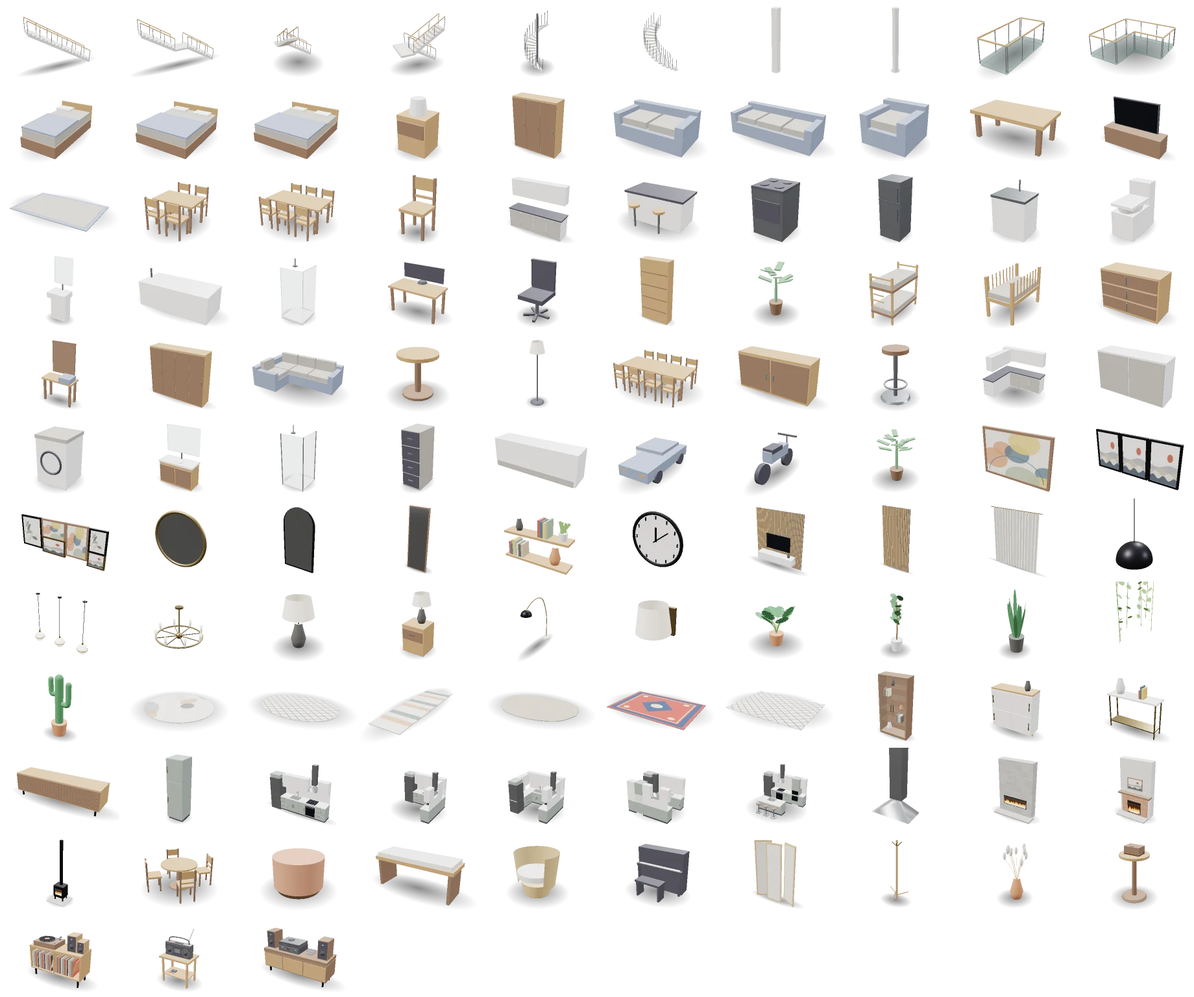
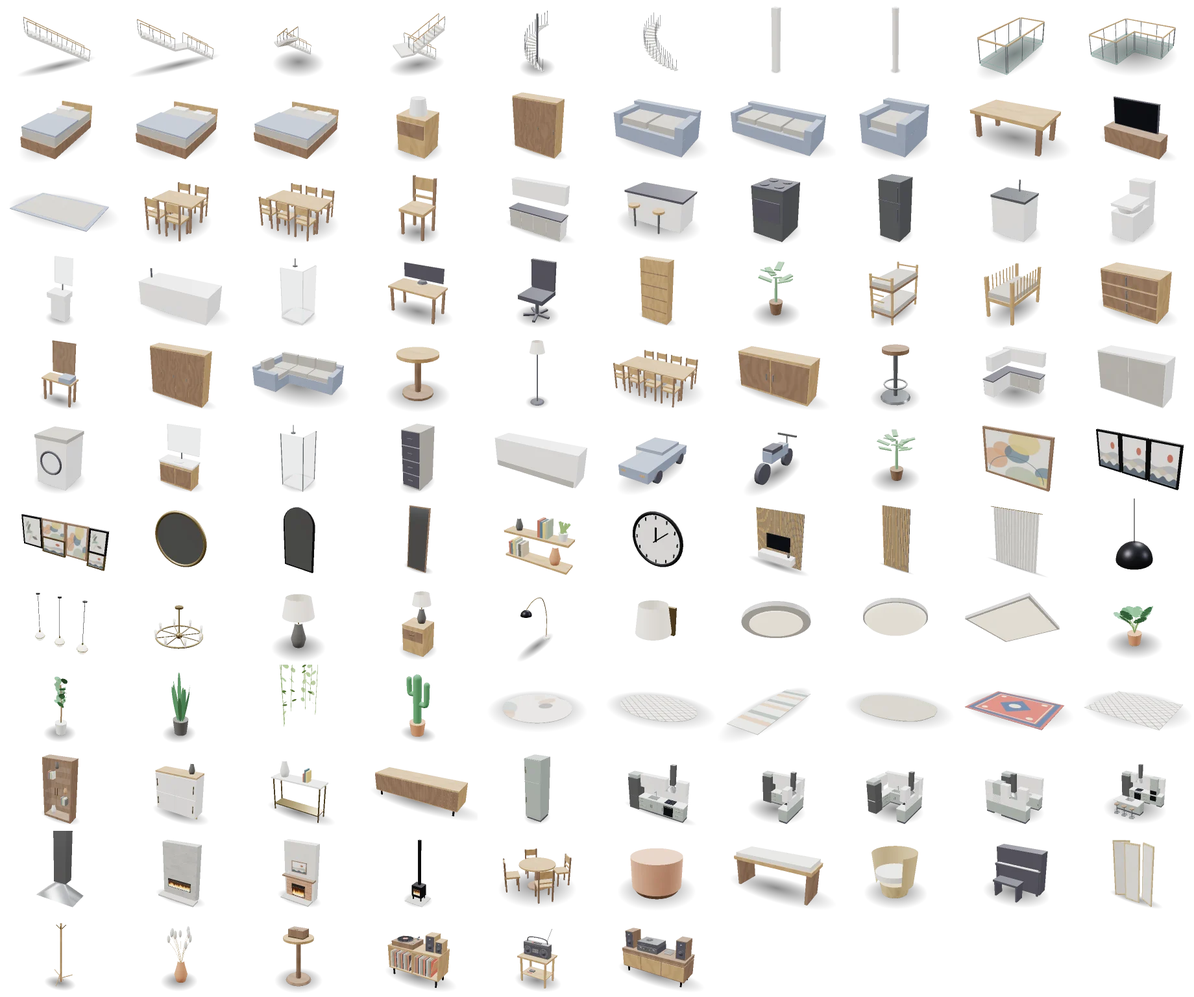
Ceiling lamps with lumens/SNI sizing, smoother shadows, anti-tiling textures, live shadow updates
- New ceiling-mounted lamps: downlight, round flush mount, 60x60 LED panel.
  Their pooled point light carries an invisible disc that blocks upward light
  (only for its own shadow map), so the ceiling does not flare white.
- Lamp brightness is now set in lumens (defaults follow common LED fittings);
  inspector shows the SNI 6197 target for the room (area by flood fill,
  room type guessed from furniture) and applies it with one button.
- Shadow noise: rotation pattern shrunk to 2x2 and point lights take 12 extra
  taps in the penumbra only; SSAO blur is now exactly 4x4 so its Bayer
  pattern cancels instead of leaving a dotted screen-door texture.
- Anti-tiling for wall/floor finishes (world-space macro variation, rotated
  second sample for noise-like textures, per-tile tone for ceramics); wood,
  fabric and metal micro-relief fade out before they alias into moire.
- Shadow maps refresh after toggling curtains/TV/lamps in walk mode, and a
  lamp's light follows it while it is dragged with the gizmo.

Claude-Session: https://claude.ai/code/session_01WFmxvquuy7T2PQJpb6WFnF

diff --git a/index.html b/index.html
@@ -665,19 +665,22 @@ renderer.shadowMap.autoUpdate=false;
   let s=THREE.ShaderChunk.shadowmap_pars_fragment;
   const fn=`
 	float sbB2( vec2 a ){ a=floor(a); return fract( dot( a, vec2( 0.5, a.y*0.75 ) ) ); }
-	float sbIGN(){ vec2 a=gl_FragCoord.xy; return sbB2( 0.5*a )*0.25 + sbB2( a ); }   // matriks Bayer 4×4: tekstur halus merata, bukan bintik acak
+	// pola putar 2×2 (bukan 4×4): di layar retina satu periode hanya 2 piksel fisik,
+	// jadi mata merata-ratakannya — tidak tampak bintik-bintik seperti pola 4×4
+	float sbIGN(){ return sbB2( gl_FragCoord.xy ); }
+	float sbGeser(){ return 0.125+0.75*sbB2( gl_FragCoord.xy+vec2(1.0,0.0) ); }
 	// spiral Vogel tanpa sin/cos per cuplikan: arah diputar sudut emas tiap langkah
 	const mat2 SB_EMAS = mat2( -0.7373688, 0.6754903, -0.6754903, -0.7373688 );
 	const mat2 SB_GESER = mat2( -0.5048461, 0.8632094, -0.8632094, -0.5048461 );
 	float sbPCSS( sampler2D map, vec2 uv, float z, float S, vec2 size ){
-		vec2 tex=1.0/size; float rot=sbIGN()*6.2831853; vec2 a0=vec2( cos(rot), sin(rot) ), a=a0;
+		vec2 tex=1.0/size; float rot=sbIGN()*6.2831853, sg=sbGeser(); vec2 a0=vec2( cos(rot), sin(rot) ), a=a0;
 		float cari=clamp( z*S, tex.x*3.0, 0.02 );
 		// bias bidang penerima: permukaan miring terhadap cahaya tidak boleh
 		// menghalangi dirinya sendiri di cuplikan yang jauh dari pusat
 		float kz=0.035/max(S,1e-4);
 		float jumlah=0.0, n=0.0;
 		for( int i=0; i<12; i++ ){
-			float r=sqrt((float(i)+0.5)/12.0)*cari;
+			float r=sqrt((float(i)+sg)/12.0)*cari;
 			float d=unpackRGBAToDepth( texture2D( map, uv+a*r ) );
 			if( d<z-r*kz ){ jumlah+=d; n+=1.0; }
 			a=SB_EMAS*a;
@@ -687,7 +690,7 @@ renderer.shadowMap.autoUpdate=false;
 		if( n>11.5 && pen<=cari ) return 0.0;          // seluruh area terhalang: umbra, tanpa penyaringan
 		float h=0.0;
 		a=SB_GESER*a0;
-		for( int i=0; i<16; i++ ){ float r=sqrt((float(i)+0.5)/16.0)*pen; h+=texture2DCompare( map, uv+a*r, z-r*kz ); a=SB_EMAS*a; }
+		for( int i=0; i<16; i++ ){ float r=sqrt((float(i)+sg)/16.0)*pen; h+=texture2DCompare( map, uv+a*r, z-r*kz ); a=SB_EMAS*a; }
 		return h/16.0;
 	}
 `;
@@ -699,12 +702,16 @@ renderer.shadowMap.autoUpdate=false;
 		float dR=length(L2P); vec3 N=L2P/dR;
 		vec3 up=abs(N.y)<0.99 ? vec3(0.0,1.0,0.0) : vec3(1.0,0.0,0.0);
 		vec3 T=normalize(cross(up,N)); vec3 B=cross(N,T);
-		float rot=sbIGN()*6.2831853, tex=2.0/size.x; vec2 a=vec2( cos(rot), sin(rot) );
+		float rot=sbIGN()*6.2831853, sg=sbGeser(), tex=2.0/size.x; vec2 a=vec2( cos(rot), sin(rot) );
 		float pen=clamp( 0.6*Ls/max(dR,0.3), tex*1.5, 0.12 );
 		float kd=0.7*dR/(farC-nearC);                 // bias bidang penerima per radian
 		float h=0.0;
-		for( int i=0; i<12; i++ ){ float r=sqrt((float(i)+0.5)/12.0)*pen; vec2 o=a*r; a=SB_EMAS*a; h+=texture2DCompare( map, cubeToUV( N+T*o.x+B*o.y, texY ), dp-r*kd ); }
-		return h/12.0;
+		for( int i=0; i<12; i++ ){ float r=sqrt((float(i)+sg)/12.0)*pen; vec2 o=a*r; a=SB_EMAS*a; h+=texture2DCompare( map, cubeToUV( N+T*o.x+B*o.y, texY ), dp-r*kd ); }
+		if( h<0.5 || h>11.5 ) return h/12.0;         // terang penuh / umbra: cukup 12 cuplikan
+		// di penumbra saja: 12 cuplikan lagi di sela-sela yang pertama → 24, bintik jauh berkurang
+		a=SB_GESER*a; float sg2=fract(sg+0.5);
+		for( int i=0; i<12; i++ ){ float r=sqrt((float(i)+sg2)/12.0)*pen; vec2 o=a*r; a=SB_EMAS*a; h+=texture2DCompare( map, cubeToUV( N+T*o.x+B*o.y, texY ), dp-r*kd ); }
+		return h/24.0;
 	}
 `;
   const a0=s.indexOf('float getShadow(');
@@ -882,11 +889,15 @@ function fxSiapkan(){
     uniforms:{tAO:{value:FX.rtA.texture}, tDepth:{value:FX.rtD.depthTexture}, size:{value:new THREE.Vector2()}, cNear:{value:0.05}, cFar:{value:600}, projInv:{value:new THREE.Matrix4()}},
     fragmentShader:posFn+`
     uniform sampler2D tAO; varying vec2 vUv;
-    void main(){                                   // 5×5 menghormati kedalaman: bayangan tidak meluber ke benda di depannya
+    // 4×4 persis selebar pola Bayer AO: tiap jendela memuat ke-16 putaran sekali,
+    // jadi polanya hilang total (5×5 menyisakan bintik-bintik halus). Bobot
+    // kedalaman relatif: lantai yang dilihat miring tetap dirata-rata penuh,
+    // sedangkan benda di depan/belakang tidak ikut meluber.
+    void main(){
       vec2 px=1.0/size; float z0=posV(vUv).z, s=0.0, w=0.0;
-      for(int x=-2;x<=2;x++) for(int y=-2;y<=2;y++){
+      for(int x=-2;x<=1;x++) for(int y=-2;y<=1;y++){
         vec2 uv=vUv+vec2(float(x),float(y))*px;
-        float bw=1.0/(1.0+abs(posV(uv).z-z0)*18.0);
+        float bw=1.0-0.97*smoothstep(0.015,0.05,abs(posV(uv).z-z0)/max(-z0,0.05));
         s+=texture2D(tAO,uv).r*bw; w+=bw;
       }
       gl_FragColor=vec4(vec3(s/w),1.0);
@@ -1321,6 +1332,45 @@ function setPBR(on){
   rebuildScene();
 }
 
+/* ANTI-PENGULANGAN — tekstur finishing berulang tiap 1–2,4 m; di dinding atau
+   lantai yang luas, bercak yang sama muncul berderet dan mata langsung melihat
+   "ubin"-nya. Di shader: (1) variasi terang skala besar dari noise ruang dunia,
+   (2) tekstur acak (cat, plester, beton, teraso) dicampur dengan dirinya sendiri
+   yang diputar & diskalakan lewat topeng noise, (3) keramik: tiap keping sedikit
+   beda nada seperti ubin sungguhan dari lot produksi yang sama. */
+const ULANG_ACAK=new Set(['W_cat','W_plester','W_beton','L_beton','L_teraso']);
+const ULANG_KEPING={L_keramik:2, L_keramik2:2};
+function antiUlang(m,kunci){
+  const acak=ULANG_ACAK.has(kunci)?1:0, kep=ULANG_KEPING[kunci]||0;
+  m.customProgramCacheKey=()=>'ulang_'+acak+'_'+kep;
+  m.onBeforeCompile=sh=>{
+    sh.vertexShader=sh.vertexShader
+      .replace('#include <common>','#include <common>\nvarying vec3 vUPos;')
+      .replace('#include <worldpos_vertex>','#include <worldpos_vertex>\n vUPos=(modelMatrix*vec4(transformed,1.0)).xyz;');
+    sh.fragmentShader=sh.fragmentShader
+      .replace('#include <common>',`#include <common>
+varying vec3 vUPos;
+float uH(vec3 p){ p=fract(p*0.3183099+0.1); p*=17.0; return fract(p.x*p.y*p.z*(p.x+p.y+p.z)); }
+float uN(vec3 x){ vec3 i=floor(x), f=fract(x); f=f*f*(3.0-2.0*f);
+  return mix(mix(mix(uH(i),uH(i+vec3(1,0,0)),f.x),mix(uH(i+vec3(0,1,0)),uH(i+vec3(1,1,0)),f.x),f.y),
+             mix(mix(uH(i+vec3(0,0,1)),uH(i+vec3(1,0,1)),f.x),mix(uH(i+vec3(0,1,1)),uH(i+vec3(1,1,1)),f.x),f.y),f.z); }`)
+      .replace('#include <map_fragment>',`#ifdef USE_MAP
+  vec4 texelColor=texture2D( map, vUv );
+  #if ${acak}
+  { vec2 uv2=mat2(0.8,-0.6,0.6,0.8)*vUv*0.71+vec2(0.37,0.61);
+    float t=smoothstep(0.3,0.7,uN(vUPos*0.8+vec3(3.1)));
+    texelColor=mix(texelColor,texture2D( map, uv2 ),t); }
+  #endif
+  texelColor=mapTexelToLinear( texelColor );
+  diffuseColor*=texelColor;
+#endif
+  diffuseColor.rgb*=0.955+0.09*(uN(vUPos*0.42)*0.65+uN(vUPos*1.35+vec3(7.0))*0.35);
+  #if ${kep}
+  { vec2 c=floor(vUv*${kep}.0+0.0001); diffuseColor.rgb*=0.975+0.05*fract(sin(dot(c,vec2(12.9898,78.233)))*43758.5453); }
+  #endif`);
+  };
+  m.needsUpdate=true;
+}
 const FINMAT=new Map();          // kunci -> material, dibuat sekali lalu dipakai ulang
 function finMat(tabel,kunci,warnaCustom){
   const def=tabel[kunci]||tabel[Object.keys(tabel)[0]];
@@ -1339,6 +1389,7 @@ function finMat(tabel,kunci,warnaCustom){
     } else m=new THREE.MeshStandardMaterial(tex
       ? {map:finTex(kunciTex,warna), color:0xffffff, roughness:def.kasar, metalness:def.logam}
       : {color:warna, roughness:def.kasar, metalness:def.logam});
+    if(tex && renderer.capabilities.isWebGL2) antiUlang(m,kunciTex);
     FINMAT.set(id,m);
   }
   return FINMAT.get(id);
@@ -3191,6 +3242,17 @@ function wallSconce(){ const g=new THREE.Group(), y=1.65;
   g.add(box(0.015,0.015,0.14,MAT.brass,0,y,0.03));
   g.add(msh(new THREE.CylinderGeometry(0.07,0.09,0.14,24,1,true),MAT.shade,0,y+0.06,0.1));
   g.add(sph(0.03,MAT.glow,0,y+0.04,0.1)); return g; }
+/* lampu yang menempel di plafon: tanpa tali, diffuser rata dengan plafon */
+function downlight(){ const g=new THREE.Group(), H=ceilH();
+  g.add(cyl(0.085,0.085,0.012,MAT.white,0,H-0.006,0,32));                 // bingkai (trim) bulat
+  g.add(cyl(0.066,0.066,0.004,MAT.glow,0,H-0.013,0,32)); return g; }
+function ceilingFlush(){ const g=new THREE.Group(), H=ceilH();
+  g.add(cyl(0.2,0.2,0.025,MAT.white,0,H-0.0125,0,40));
+  const d=msh(new THREE.SphereGeometry(0.19,40,10,0,Math.PI*2,Math.PI/2,Math.PI/2),MAT.glow,0,H-0.024,0);
+  d.scale.y=0.36; g.add(d); return g; }
+function ceilingPanel(){ const g=new THREE.Group(), H=ceilH();
+  g.add(box(0.6,0.028,0.6,MAT.white,0,H-0.014,0));
+  g.add(box(0.56,0.004,0.56,MAT.glow,0,H-0.03,0)); return g; }
 
 /* ---------- TANAMAN ---------- */
 function leafGeo(len,wid,tipe){
@@ -3494,6 +3556,9 @@ const FURN={
   night_lamp  :{l:'Nakas + Lampu',      i:'🛏', c:'lampu',   f:[0.45,0.4],  b:nightLampSet},
   arc_lamp    :{l:'Lampu Lengkung',     i:'💡', c:'lampu',   f:[0.4,1.7],   b:arcLamp},
   wall_sconce :{l:'Lampu Dinding',      i:'💡', c:'lampu',   f:[0.2,0.2],   b:wallSconce,   wall:1, back:0.05},
+  downlight   :{l:'Downlight Plafon',   i:'💡', c:'lampu',   f:[0.17,0.17], b:downlight,    plafon:1},
+  ceiling_flush:{l:'Lampu Plafon Bulat',i:'💡', c:'lampu',   f:[0.4,0.4],   b:ceilingFlush, plafon:1},
+  ceiling_panel:{l:'Panel LED Plafon',  i:'💡', c:'lampu',   f:[0.6,0.6],   b:ceilingPanel, plafon:1},
   // --- tanaman
   monstera    :{l:'Monstera',           i:'🌿', c:'tanaman', f:[1.2,1.2],   b:monstera},
   fiddle_leaf :{l:'Pohon Biola',        i:'🌳', c:'tanaman', f:[0.8,0.8],   b:fiddleLeaf},
@@ -3564,6 +3629,9 @@ const KAIDAH={
   arc_lamp:'Pangkal di belakang/samping sofa, kap menjangkau di atas meja tamu setinggi ±170–180 cm.',
   wall_sconce:'Pasang ±160–170 cm. Di samping ranjang ±120–150 cm; mengapit cermin setinggi mata, 75–100 cm terpisah.',
   floor_lamp:'Di sudut ruang atau di samping kursi baca; kap sejajar bahu saat duduk.',
+  downlight:'Jarak antar-downlight ≈ tinggi plafon (±1,2–1,5 m), ±60 cm dari dinding. Hitung lumennya dengan tombol SNI di bawah.',
+  ceiling_flush:'Satu di tengah ruang kecil (≤ 12 m²). Plafon rendah (< 2,6 m) lebih cocok lampu tempel daripada lampu gantung.',
+  ceiling_panel:'Mengikuti modul plafon 60 × 60 cm; cocok untuk ruang kerja, dapur, dan garasi yang butuh terang merata.',
   monstera:'Cahaya terang tidak langsung, 1–2 m dari jendela. Tanaman besar di sudut menyeimbangkan perabot yang rendah.',
   fiddle_leaf:'Butuh cahaya terang dekat jendela dan tidak suka dipindah-pindah. Tinggi 1,5–2 m cocok sebagai titik fokus di sudut.',
   snake_plant:'Tahan cahaya rendah dan menyaring udara — cocok untuk kamar tidur dan sudut minim cahaya.',
@@ -3657,12 +3725,72 @@ function buildColumn(o,lv){
    dikompilasi ulang saat lampu dinyalakan/dimatikan).
    ===================================================================== */
 const NYALA_JENIS={pendant:'lampu',pendant_trio:'lampu',chandelier:'lampu',table_lamp:'lampu',night_lamp:'lampu',
-  arc_lamp:'lampu',wall_sconce:'lampu',floor_lamp:'lampu',
+  arc_lamp:'lampu',wall_sconce:'lampu',floor_lamp:'lampu',downlight:'lampu',ceiling_flush:'lampu',ceiling_panel:'lampu',
   kitchen_line:'lampu',kitchen_l2:'lampu',kitchen_u:'lampu',kitchen_par:'lampu',kitchen_isl:'lampu',
   fire_modern:'api',fire_classic:'api',wood_stove:'api', tv_set:'tv',tv_wall:'tv', curtain:'gorden',
   music_box:'audio', vinyl_player:'audio', cassette_player:'audio', cd_player:'audio'};
 const KUAT_LAMPU={chandelier:1.6,pendant:1.1,pendant_trio:1.4,table_lamp:0.6,night_lamp:0.6,arc_lamp:0.9,wall_sconce:0.55,
   floor_lamp:0.8,kitchen_line:0.8,kitchen_l2:0.8,kitchen_u:0.8,kitchen_par:0.8,kitchen_isl:0.9,fire_modern:1.3,fire_classic:1.3,wood_stove:0.9};
+/* TERANG LAMPU DALAM LUMEN — nilai bawaan = lampu LED rumahan yang umum dijual
+   (lumen mengikuti bohlam/modul yang biasa dipasang di tiap jenis armatur).
+   Kekuatan lampu titik di scene sebanding lurus dengan lumennya. */
+const LUMEN_STD={chandelier:3200,pendant:2200,pendant_trio:2800,table_lamp:1200,night_lamp:800,arc_lamp:1600,wall_sconce:800,
+  floor_lamp:1600,kitchen_line:1600,kitchen_l2:1600,kitchen_u:1600,kitchen_par:1600,kitchen_isl:1800,
+  downlight:900,ceiling_flush:2000,ceiling_panel:3600};
+const LM_PER_KUAT=2000;
+function lumenLampu(o){ const v=o.params&&+o.params.lumen; return v>0 ? v : (LUMEN_STD[o.type]||1600); }
+function kuatLampu(o){ return NYALA_JENIS[o.type]==='lampu' ? lumenLampu(o)/LM_PER_KUAT : (KUAT_LAMPU[o.type]||0.8); }
+/* Kebutuhan terang menurut SNI 6197:2011 (rumah tinggal, lux) & metode lumen:
+   Φ total = E × A / (CU × MF), CU ≈ 0,6 (ruang berdinding terang), MF = 0,8. */
+const SNI_LUX={tidur:{l:'Kamar tidur',e:150,r:'120–250'}, tamu:{l:'Ruang tamu/keluarga',e:150,r:'120–150'},
+  makan:{l:'Ruang makan',e:200,r:'120–250'}, kerja:{l:'Ruang kerja',e:250,r:'120–250'}, dapur:{l:'Dapur',e:250,r:'250'},
+  mandi:{l:'Kamar mandi',e:250,r:'250'}, teras:{l:'Teras/area terbuka',e:60,r:'60'}, umum:{l:'Ruang',e:150,r:'120–250'}};
+const LAMPU_UTAMA=new Set(['pendant','pendant_trio','chandelier','downlight','ceiling_flush','ceiling_panel']);
+/* luas ruang tempat lampu berada: isi-banjir grid 10 cm yang dibatasi dinding
+   (pintu dianggap tertutup), lalu jenis ruang ditebak dari perabot di dalamnya */
+function ruangLampu(o,lv){
+  const walls=lv.walls.filter(w=>!w.rail); if(!walls.length) return null;
+  let x0=o.x,x1=o.x,z0=o.z,z1=o.z;
+  for(const w of walls){ x0=Math.min(x0,w.x1,w.x2); x1=Math.max(x1,w.x1,w.x2); z0=Math.min(z0,w.z1,w.z2); z1=Math.max(z1,w.z1,w.z2); }
+  const C=0.1; x0-=0.5; z0-=0.5; const nx=Math.ceil((x1+0.5-x0)/C), nz=Math.ceil((z1+0.5-z0)/C);
+  if(nx*nz>600000) return null;
+  const blok=new Uint8Array(nx*nz);
+  for(const w of walls){
+    const t=(w.thickness||0.15)/2+C*0.75, dx=w.x2-w.x1, dz=w.z2-w.z1, L2=dx*dx+dz*dz||1e-9;
+    const ia=Math.max(0,Math.floor((Math.min(w.x1,w.x2)-t-x0)/C)), ib=Math.min(nx-1,Math.ceil((Math.max(w.x1,w.x2)+t-x0)/C));
+    const ja=Math.max(0,Math.floor((Math.min(w.z1,w.z2)-t-z0)/C)), jb=Math.min(nz-1,Math.ceil((Math.max(w.z1,w.z2)+t-z0)/C));
+    for(let j=ja;j<=jb;j++) for(let i=ia;i<=ib;i++){
+      const px=x0+(i+0.5)*C, pz=z0+(j+0.5)*C;
+      const u=clamp(((px-w.x1)*dx+(pz-w.z1)*dz)/L2,0,1), qx=w.x1+dx*u-px, qz=w.z1+dz*u-pz;
+      if(qx*qx+qz*qz<=t*t) blok[j*nx+i]=1;
+    }
+  }
+  // titik awal: sel bebas terdekat (lampu dinding menempel ke tembok)
+  let si=-1; const ci=Math.floor((o.x-x0)/C), cj=Math.floor((o.z-z0)/C);
+  for(let r=0;r<8&&si<0;r++) for(let j=cj-r;j<=cj+r&&si<0;j++) for(let i=ci-r;i<=ci+r;i++){
+    if(i<0||j<0||i>=nx||j>=nz) continue; if(!blok[j*nx+i]){ si=j*nx+i; break; } }
+  if(si<0) return null;
+  const isi=new Uint8Array(nx*nz), q=[si]; isi[si]=1; let n=0, bocor=false;
+  while(q.length){ const k=q.pop(); n++; const i=k%nx, j=(k-i)/nx;
+    if(i===0||j===0||i===nx-1||j===nz-1){ bocor=true; continue; }
+    for(const kk of [k-1,k+1,k-nx,k+nx]) if(!blok[kk]&&!isi[kk]){ isi[kk]=1; q.push(kk); } }
+  const di=(x,z)=>{ const i=Math.floor((x-x0)/C), j=Math.floor((z-z0)/C); return i>=0&&j>=0&&i<nx&&j<nz&&isi[j*nx+i]; };
+  const isiRuang=lv.objects.filter(b=>b.kind==='furn'&&di(b.x,b.z));
+  const ada=re=>isiRuang.some(b=>re.test(b.type));
+  const jenis = bocor ? 'teras' : ada(/^(bed_|bunk|crib)/) ? 'tidur' : ada(/^(toilet|bathtub|shower|washbasin|vanity$)/) ? 'mandi'
+    : ada(/^(kitchen|stove|sink|fridge|island|range_hood)/) ? 'dapur' : ada(/^dining/) ? 'makan'
+    : ada(/^(desk|office_chair|filing)/) ? 'kerja' : ada(/^(sofa|armchair|tv_|coffee_table)/) ? 'tamu' : 'umum';
+  const luas = bocor ? Math.min(n*C*C, 30) : n*C*C;
+  const utama=Math.max(1, isiRuang.filter(b=>LAMPU_UTAMA.has(b.type)).length);
+  return {luas, jenis, utama, bocor};
+}
+function saranLumen(o,lv){
+  const R=ruangLampu(o,lv); if(!R) return null;
+  const S=SNI_LUX[R.jenis], total=S.e*R.luas/(0.6*0.8);
+  // lampu utama berbagi kebutuhan ruang; lampu aksen (meja, lantai, dinding) cukup menerangi sekitarnya
+  const lm = LAMPU_UTAMA.has(o.type) ? total/R.utama : Math.min(LUMEN_STD[o.type]||800, total*0.3);
+  return {...R, S, total, lm:clamp(Math.round(lm/50)*50,200,12000)};
+}
 const MATI=new Set(), TV_NYALA=new Set(), GORDEN_BUKA=new Set();
 Object.assign(MAT,{
   glowOff : new THREE.MeshStandardMaterial({color:0xe9e4da, roughness:.35}),
@@ -4255,18 +4383,36 @@ function kumpulkanLampu(){
     for(const c of lg.children){
       if(c.userData.kind!=='obj' || !c.userData.lampuTitik) continue;
       const lv=PROJECT.levels[idx], o=lv&&lv.objects.find(x=>x.id===c.userData.id); if(!o) continue;
-      LAMPU_PASANG.push({id:o.id, idx, jenis:c.userData.nyalaJenis, kuat:KUAT_LAMPU[o.type]||0.8,
+      LAMPU_PASANG.push({id:o.id, idx, jenis:c.userData.nyalaJenis, kuat:kuatLampu(o), plafon:!!(FURN[o.type]&&FURN[o.type].plafon),
                          pos:c.localToWorld(c.userData.lampuTitik.clone()), grp:c});
     }
   });
   LAMPU_T=0;
 }
+// piringan penahan hanya boleh menghalangi lampunya sendiri: di peta bayangan
+// matahari tidak tergambar sama sekali, di peta lampu lain dibuang (discard)
+const TUTUP_JARAK=new THREE.MeshDistanceMaterial();
+TUTUP_JARAK.onBeforeCompile=sh=>{
+  sh.vertexShader=sh.vertexShader.replace('void main() {','uniform vec3 referencePosition; varying float vMilik;\nvoid main() {\n vMilik=distance(referencePosition,(modelMatrix*vec4(0.0,0.0,0.0,1.0)).xyz);');
+  sh.fragmentShader=sh.fragmentShader.replace('void main () {','varying float vMilik;\nvoid main () {\n if(vMilik>0.3) discard;').replace('void main() {','varying float vMilik;\nvoid main() {\n if(vMilik>0.3) discard;');
+};
+TUTUP_JARAK.customProgramCacheKey=()=>'tutupLampu';
+const TUTUP_KEDALAMAN=new THREE.MeshDepthMaterial({depthPacking:THREE.RGBADepthPacking});
+TUTUP_KEDALAMAN.onBeforeCompile=sh=>{ sh.fragmentShader=sh.fragmentShader.replace('void main() {','void main() {\n discard;'); };
+TUTUP_KEDALAMAN.customProgramCacheKey=()=>'tutupMatahari';
 const KOLAM=[];                        // lampu titik tetap: 4 buah berbayang, dipakai bergiliran oleh lampu terdekat
 for(let i=0;i<4;i++){
   // berbayang: cahaya lampu berhenti di dinding, tidak tembus ke ruang sebelah
   const l=new THREE.PointLight(0xffc98a,0,7,2); l.castShadow=true;
   l.shadow.mapSize.set(512,512); l.shadow.bias=-0.0012; l.shadow.normalBias=0.015; l.shadow.radius=0.12;   // radius = ukuran kap/bohlam (m)
   l.shadow.camera.near=0.08; l.shadow.camera.far=7;
+  // lampu plafon memancar ke bawah: piringan tak terlihat di atas titik cahaya
+  // menahan sinar ke atas, jadi plafon di sekitar lampu tidak menyala putih
+  const tutup=new THREE.Mesh(new THREE.CircleGeometry(1.4,24).rotateX(Math.PI/2),
+    new THREE.MeshBasicMaterial({colorWrite:false, depthWrite:false, transparent:true, opacity:0, side:THREE.DoubleSide}));
+  tutup.position.y=0.12; tutup.castShadow=true; tutup.visible=false; tutup.raycast=()=>{}; tutup.userData.noExport=true;
+  tutup.customDistanceMaterial=TUTUP_JARAK; tutup.customDepthMaterial=TUTUP_KEDALAMAN;
+  l.add(tutup); l.userData.tutup=tutup;
   scene.add(l); KOLAM.push(l);
 }
 let LAMPU_T=0;
@@ -4284,11 +4430,22 @@ function stepLampu(dt){
     KOLAM.forEach(l=>{ if(l.userData.L && !aktif.includes(l.userData.L)) l.userData.L=null; });
     KOLAM.forEach(l=>{ if(!l.userData.L && sisa.length){ l.userData.L=sisa.shift(); bayangKotor(); } });
     KOLAM.forEach(l=>{ const L=l.userData.L;
-      if(!L){ l.intensity=0; return; }
-      if(l.position.distanceToSquared(L.pos)>0.01) bayangKotor();
-      l.position.copy(L.pos); l.position.y-=0.05;
+      if(!L){ l.intensity=0; l.userData.tutup.visible=false; return; }
+      const x=L.pos.x, y=L.pos.y-(L.plafon?0.2:0.05), z=L.pos.z;
+      if((l.position.x-x)**2+(l.position.y-y)**2+(l.position.z-z)**2>1e-4) bayangKotor();
+      if(l.userData.tutup.visible!==L.plafon){ l.userData.tutup.visible=L.plafon; bayangKotor(); }
+      l.position.set(x,y,z);
       l.color.setHex(L.jenis==='api'?0xff9a4a:0xffc98a);
       l.distance = L.jenis==='api'?6:7; l.shadow.camera.far=l.distance; l.shadow.radius = L.jenis==='api'?0.2:0.1; });
+  }
+  // lampu yang sedang ditarik gizmo: titik cahayanya ikut berpindah tiap frame,
+  // bukan tertinggal di posisi lama sampai gizmo dilepas
+  if(gizmo.dragging && gizmo.object){
+    const g=gizmo.object; g.updateMatrixWorld(true);
+    for(const l of KOLAM){ const L=l.userData.L;
+      if(!L || L.grp!==g) continue;
+      L.pos.copy(g.userData.lampuTitik); g.localToWorld(L.pos);
+      l.position.copy(L.pos); l.position.y-=L.plafon?0.2:0.05; }
   }
   const s=SUASANA[MOOD], tk=performance.now()/1000;
   for(const l of KOLAM){ const L=l.userData.L; if(!L){ l.intensity=0; continue; }
@@ -4521,6 +4678,28 @@ function commitGizmo(){
 /* ======================================================================
    INSPECTOR
    ====================================================================== */
+/* terang lampu: lumen manual, atau dihitung dari luas & jenis ruang (SNI 6197) */
+function inspektorCahaya(ins,d){
+  ins.appendChild(el('div','section-title','Cahaya'));
+  const lm=lumenLampu(d), manual=!!(d.params&&d.params.lumen);
+  fRow(ins,'Terang (lumen)',numInput(lm,50,v=>{ d.params=d.params||{}; d.params.lumen=clamp(Math.round(v),100,12000);
+    HIST.label='Terang lampu'; rebuildScene(); renderInspector(); },100,12000));
+  ins.appendChild(el('p','hint',`≈ ${fmt(lm/100,1)} W LED (±100 lm/W) · ${manual?'diatur sendiri':'bawaan armatur ini'}`));
+  const sr=saranLumen(d,L());
+  if(sr){
+    const b=el('div','badge ok');
+    b.textContent=`SNI 6197: ${sr.S.l} ${sr.S.r} lux → pakai ${sr.S.e} lux. Luas ${sr.bocor?'± (area terbuka) ':''}${fmt(sr.luas,1)} m²`
+      +(LAMPU_UTAMA.has(d.type)?`, ${sr.utama} lampu utama → ${fmt(sr.lm,0)} lm per lampu.`:` — lampu aksen: ${fmt(sr.lm,0)} lm cukup.`);
+    ins.appendChild(b);
+    const row=el('div','row');
+    const bs=el('button','btn sm ghost','Pakai standar SNI');
+    bs.onclick=()=>{ d.params=d.params||{}; d.params.lumen=sr.lm; HIST.label='Terang lampu (SNI)'; rebuildScene(); renderInspector();
+      toast(`Terang lampu ${fmt(sr.lm,0)} lm — ${sr.S.l.toLowerCase()} ${sr.S.e} lux`); };
+    row.appendChild(bs);
+    if(manual){ const br=el('button','btn sm ghost','Bawaan'); br.onclick=()=>{ delete d.params.lumen; rebuildScene(); renderInspector(); }; row.appendChild(br); }
+    ins.appendChild(row);
+  }
+}
 function fRow(parent,label,node){
   const r=el('div','f-row'); r.appendChild(el('label',null,label)); r.appendChild(node); parent.appendChild(r); return r;
 }
@@ -4782,6 +4961,7 @@ function renderInspector(){
       else toast('Tidak ada dinding dalam jarak 6 m');
     };
     ins.appendChild(bw);
+    if(NYALA_JENIS[d.type]==='lampu') inspektorCahaya(ins,d);
     addTransformFields(ins,d,true);
   }
 
@@ -7932,7 +8112,7 @@ $('#furn-filter').addEventListener('change',renderCatalogs);
    sekali; objek yang belum ada di atlas (objek baru, model .glb unggahan)
    digambar di tempat, satu per satu saat senggang.
    ===================================================================== */
-const THUMB_ATLAS=/*ATLAS*/{"src":"thumbs.webp?v=f0af8263","kol":10,"keys":["stair:straight","stair:landing","stair:l_shape","stair:u_shape","stair:spiral","stair:curved","column:rect","column:round","void:rect","void:L","furn:bed_single","furn:bed_double","furn:bed_king","furn:nightstand","furn:wardrobe","furn:sofa2","furn:sofa3","furn:armchair","furn:coffee_table","furn:tv_set","furn:rug","furn:dining4","furn:dining6","furn:chair","furn:kitchen","furn:island","furn:stove","furn:fridge","furn:sink","furn:toilet","furn:washbasin","furn:bathtub","furn:shower","furn:desk","furn:office_chair","furn:bookshelf","furn:plant","furn:bunk","furn:crib","furn:dresser","furn:vanity_table","furn:wardrobe3","furn:sofa_l","furn:side_table","furn:floor_lamp","furn:dining8","furn:buffet","furn:bar_stool","furn:kitchen_l","furn:upper_cab","furn:washer","furn:vanity","furn:shower_box","furn:filing","furn:ac_split","furn:car","furn:motorcycle","furn:plant_big","furn:art_canvas","furn:art_triptych","furn:gallery_wall","furn:mirror_round","furn:mirror_arch","furn:mirror_floor","furn:wall_shelf","furn:wall_clock","furn:tv_wall","furn:slat_panel","furn:curtain","furn:pendant","furn:pendant_trio","furn:chandelier","furn:table_lamp","furn:night_lamp","furn:arc_lamp","furn:wall_sconce","furn:monstera","furn:fiddle_leaf","furn:snake_plant","furn:hanging_plant","furn:cactus","furn:rug_round","furn:rug_oval","furn:rug_runner","furn:rug_organic","furn:rug_persia","furn:rug_berber","furn:display_cab","furn:shoe_cab","furn:console_tbl","furn:tv_console","furn:pantry","furn:kitchen_line","furn:kitchen_l2","furn:kitchen_u","furn:kitchen_par","furn:kitchen_isl","furn:range_hood","furn:fire_modern","furn:fire_classic","furn:wood_stove","furn:dining_round","furn:ottoman","furn:bench","furn:rattan_chair","furn:piano","furn:room_divider","furn:coat_rack","furn:floor_vase","furn:music_box","furn:vinyl_player","furn:cassette_player","furn:cd_player"]}/*ATLAS*/;
+const THUMB_ATLAS=/*ATLAS*/{"src":"thumbs.webp?v=cf3c43b0","kol":10,"keys":["stair:straight","stair:landing","stair:l_shape","stair:u_shape","stair:spiral","stair:curved","column:rect","column:round","void:rect","void:L","furn:bed_single","furn:bed_double","furn:bed_king","furn:nightstand","furn:wardrobe","furn:sofa2","furn:sofa3","furn:armchair","furn:coffee_table","furn:tv_set","furn:rug","furn:dining4","furn:dining6","furn:chair","furn:kitchen","furn:island","furn:stove","furn:fridge","furn:sink","furn:toilet","furn:washbasin","furn:bathtub","furn:shower","furn:desk","furn:office_chair","furn:bookshelf","furn:plant","furn:bunk","furn:crib","furn:dresser","furn:vanity_table","furn:wardrobe3","furn:sofa_l","furn:side_table","furn:floor_lamp","furn:dining8","furn:buffet","furn:bar_stool","furn:kitchen_l","furn:upper_cab","furn:washer","furn:vanity","furn:shower_box","furn:filing","furn:ac_split","furn:car","furn:motorcycle","furn:plant_big","furn:art_canvas","furn:art_triptych","furn:gallery_wall","furn:mirror_round","furn:mirror_arch","furn:mirror_floor","furn:wall_shelf","furn:wall_clock","furn:tv_wall","furn:slat_panel","furn:curtain","furn:pendant","furn:pendant_trio","furn:chandelier","furn:table_lamp","furn:night_lamp","furn:arc_lamp","furn:wall_sconce","furn:downlight","furn:ceiling_flush","furn:ceiling_panel","furn:monstera","furn:fiddle_leaf","furn:snake_plant","furn:hanging_plant","furn:cactus","furn:rug_round","furn:rug_oval","furn:rug_runner","furn:rug_organic","furn:rug_persia","furn:rug_berber","furn:display_cab","furn:shoe_cab","furn:console_tbl","furn:tv_console","furn:pantry","furn:kitchen_line","furn:kitchen_l2","furn:kitchen_u","furn:kitchen_par","furn:kitchen_isl","furn:range_hood","furn:fire_modern","furn:fire_classic","furn:wood_stove","furn:dining_round","furn:ottoman","furn:bench","furn:rattan_chair","furn:piano","furn:room_divider","furn:coat_rack","furn:floor_vase","furn:music_box","furn:vinyl_player","furn:cassette_player","furn:cd_player"]}/*ATLAS*/;
 const THUMB={W:184, H:128, url:new Map(), antri:[], sibuk:false, atlasGagal:false};
 const THUMB_IDX = THUMB_ATLAS ? new Map(THUMB_ATLAS.keys.map((k,i)=>[k,i])) : new Map();
 if(THUMB_ATLAS){ const im=new Image(); im.onerror=()=>{ THUMB.atlasGagal=true; renderCatalogs(); }; im.src=THUMB_ATLAS.src; }
@@ -7999,7 +8179,9 @@ function gambarThumb(kind,type,R=renderer){
   THUMB.blob.visible=dilantai;
   if(dilantai){ THUMB.blob.position.set(c.x,bb.min.y+0.002,c.z); THUMB.blob.scale.set(uk.x*1.35+0.15,uk.z*1.35+0.15,1); }
   // kamera 3/4 dari depan-kanan-atas, dibingkai pas dengan proyeksi sudut kotak
-  const cam=THUMB.cam, arah=(kind==='stair'?new THREE.Vector3(1,0.5,0.45):new THREE.Vector3(0.62,0.52,1)).normalize();   // tangga dilihat dari samping: larinya terbaca
+  const cam=THUMB.cam, arah=(kind==='stair'?new THREE.Vector3(1,0.5,0.45)            // tangga dilihat dari samping: larinya terbaca
+    : kind==='furn'&&FURN[type].plafon ? new THREE.Vector3(0.62,-0.62,1)                 // lampu plafon dilihat dari bawah: sisi yang menyala
+    : new THREE.Vector3(0.62,0.52,1)).normalize();
   let jarak=bb.getSize(new THREE.Vector3()).length()/2/Math.sin(cam.fov/2*D2R);
   const v=new THREE.Vector3();
   for(let it=0;it<3;it++){
@@ -8552,6 +8734,7 @@ function pakai(t){
   else if(t.jenis==='tv'){ if(TV_NYALA.has(t.id)) TV_NYALA.delete(t.id); else TV_NYALA.add(t.id); for(const g of grupObjek(t.id)) terapkanTV(g,TV_NYALA.has(t.id)); }
   else if(t.jenis==='gorden'){ if(GORDEN_BUKA.has(t.id)) GORDEN_BUKA.delete(t.id); else GORDEN_BUKA.add(t.id); for(const g of grupObjek(t.id)) terapkanGorden(g,GORDEN_BUKA.has(t.id)); }
   else if(t.jenis==='audio'){ if(AUDIO.main.has(t.id)) hentikanMusik(t.id); else mulaiMusik(t.id); }
+  bayangKotor();                     // gorden dibuka/ditutup dsb.: peta bayangan digambar ulang
   AIM_T=0;
 }
 function stepBidik(dt){
@@ -9025,13 +9208,15 @@ const DETAIL_FRAG={
     float w=dF(vec3(g.x*1.2,g.y*26.0,0.0));
     float cincin=sin((g.y*9.0+dF(vec3(g*vec2(2.0,3.0),1.0))*7.0)*3.14159);
     float serat=0.5+0.5*sin(g.y*260.0+w*9.0);
-    float jauh=1.0-smoothstep(0.4,1.6,fwidth(g.y*260.0));
+    float fw=fwidth(g.y*260.0);
+    float jauh=1.0-smoothstep(0.3,1.0,fw);             // warna serat: pudar saat ±6 piksel per garis
+    float jauhB=1.0-smoothstep(0.1,0.35,fw);           // relief serat pudar lebih dulu — turunannya yang memicu moiré
     float k=0.86+0.16*w+0.05*cincin-0.07*serat*jauh;
-    diffuseColor.rgb*=k; dRough=(0.06*w-0.05*serat*jauh); dTinggi=serat*jauh*0.6; }`,
+    diffuseColor.rgb*=k; dRough=(0.06*w-0.05*serat*jauh); dTinggi=serat*jauhB*0.6; }`,
   kain:`{ vec2 u=dUV(vDPos,vDNrm);
     // benang berwarna campur (heather) + tenunan halus ±3 mm yang hanya tampak dari dekat
     float heather=dN(vec3(u*vec2(90.0,260.0),1.0))*0.6+dN(vec3(u*vec2(260.0,90.0),2.0))*0.4;
-    vec2 t=u*2100.0; float jauh=1.0-smoothstep(0.25,0.9,max(fwidth(t.x),fwidth(t.y)));
+    vec2 t=u*2100.0; float jauh=1.0-smoothstep(0.12,0.4,max(fwidth(t.x),fwidth(t.y)));
     float an=(sin(t.x)*0.5+0.5)*(sin(t.y+1.57)*0.5+0.5);
     float belang=dF(vDPos*5.0);
     diffuseColor.rgb*=0.93+0.07*belang+0.07*(heather-0.5)-0.05*an*jauh; dRough=0.03*an*jauh; dTinggi=an*jauh*0.25; }`,
@@ -9039,7 +9224,7 @@ const DETAIL_FRAG={
     diffuseColor.rgb*=0.86+0.2*belang; dSheen=0.55; }`,
   cat:`{ float r=dF(vDPos*3.0); dRough=(r-0.5)*0.12; diffuseColor.rgb*=0.985+0.03*dF(vDPos*0.8); }`,
   logam:`{ vec3 a=abs(vDNrm); vec2 u=a.y>0.7? vDPos.xz : vec2(vDPos.x+vDPos.z,vDPos.y);
-    float jauh=1.0-smoothstep(0.4,1.4,fwidth(u.y*900.0));
+    float jauh=1.0-smoothstep(0.12,0.45,fwidth(u.y*900.0));
     float gores=dN(vec3(u.x*6.0,u.y*900.0,0.0));
     dRough=(gores-0.5)*0.18*jauh; diffuseColor.rgb*=0.97+0.06*gores*jauh; }`
 };
